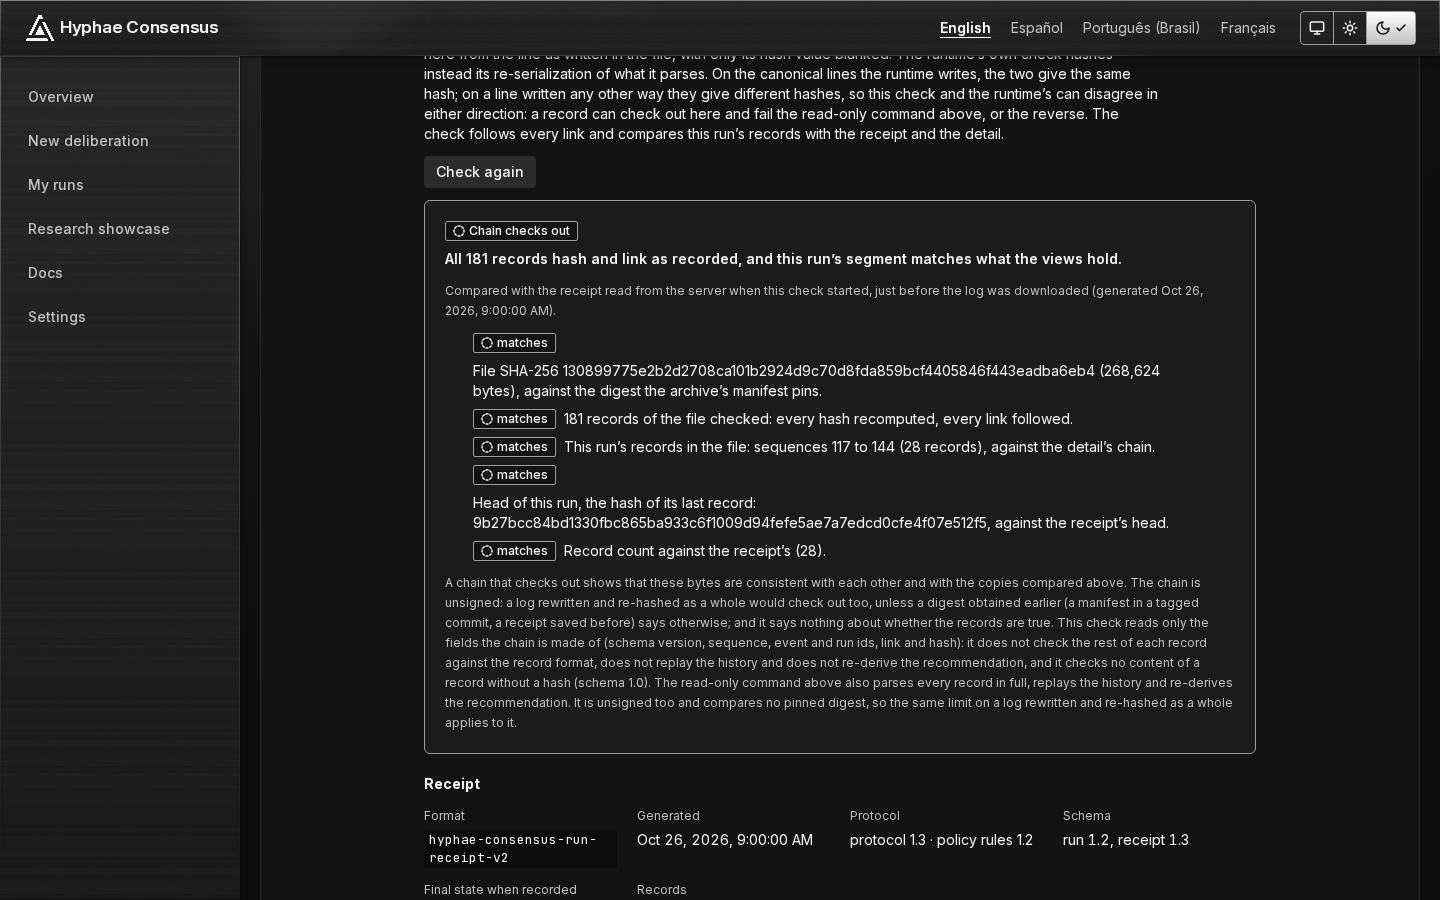
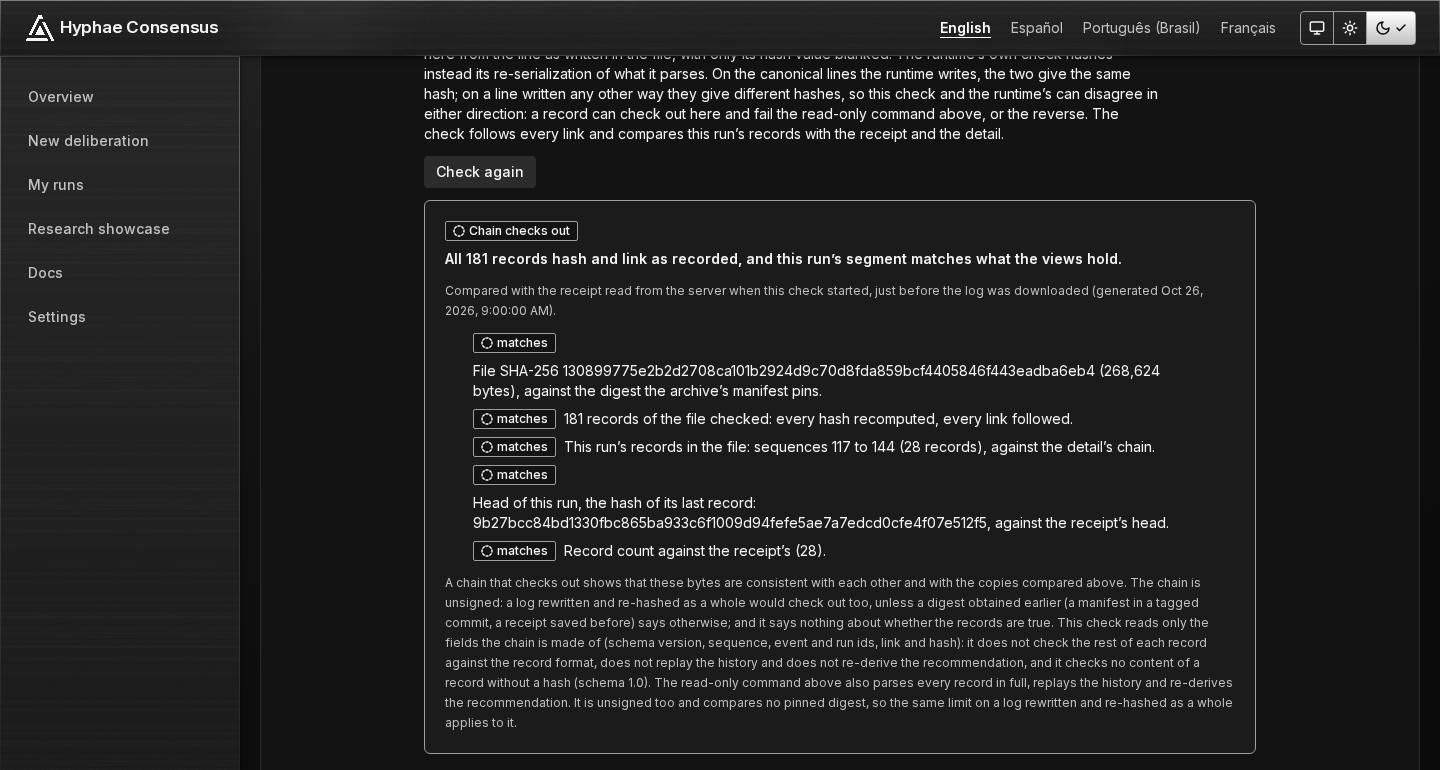
docs(readme): review fixes for the visual README
- The audit chain-check screenshots end at the check box (1440x770);
  the fixture receipt below it is cropped out. The caption and the
  "How these were made" note say that run details and receipts are
  contract fixtures, re-keyed to the archived run, not the archive's.
- The Repository link points at github.com/terrizoaguimor/hyphae-consensus.
- The paired screenshot cells are top-aligned (valign="top").
- The dotted mermaid edge uses the pipe-label form.
- docs/roadmap.md no longer cites a README "Status" section; it points
  at its own status section and at docs/meta-api.md.
- The four moved docs open with a reader-facing line instead of the
  move note, without the extra blank line.

diff --git a/README.md b/README.md
@@ -40,7 +40,7 @@ development window October 26 – November 4, 2026 · Owner: Mario (independent 
 
 ## For judges
 
-**Video:** [VIDEO_URL] · **Demo:** [DEMO_URL] · **Repository:** [REPO_URL] · run it yourself in
+**Video:** [VIDEO_URL] · **Demo:** [DEMO_URL] · **Repository:** [github.com/terrizoaguimor/hyphae-consensus](https://github.com/terrizoaguimor/hyphae-consensus) · run it yourself in
 three commands: [Quick start](#quick-start) (no credential, no Meta call).
 
 **What it is.** Three Meta-model roles (Proposer, Critic, Evidence Evaluator; `muse-wonder-1.0`
@@ -142,7 +142,7 @@ flowchart LR
     RT -- "memory port" --> SNAP
     META --> MAPI
     HY --> HYPHAE
-    SNAP -. "files captured from" .-> HYPHAE
+    SNAP -.->|files captured from| HYPHAE
     CLI --> RT
 ```
 
@@ -169,14 +169,14 @@ deployed.** The images follow your GitHub theme; both sets are in
     </td>
   </tr>
   <tr>
-    <td width="50%">
+    <td width="50%" valign="top">
       <picture>
         <source media="(prefers-color-scheme: dark)" srcset="docs/assets/screenshots/run-awaiting-dark.png">
         <img src="docs/assets/screenshots/run-awaiting-light.png" alt="Run workspace of a guided run waiting for a human decision, with the Proposer, Critic and Evidence Evaluator lanes">
       </picture>
       <br><sub><b>A run awaiting the decision.</b> A guided run (SCRIPTED, SIMULATED): the three roles, the provenance labels, the tabs.</sub>
     </td>
-    <td width="50%">
+    <td width="50%" valign="top">
       <picture>
         <source media="(prefers-color-scheme: dark)" srcset="docs/assets/screenshots/decision-dark.png">
         <img src="docs/assets/screenshots/decision-light.png" alt="Decision tab: the policy's recommendation, the no-authority notice, a note field, Approve and Reject">
@@ -185,14 +185,14 @@ deployed.** The images follow your GitHub theme; both sets are in
     </td>
   </tr>
   <tr>
-    <td width="50%">
+    <td width="50%" valign="top">
       <picture>
         <source media="(prefers-color-scheme: dark)" srcset="docs/assets/screenshots/recorded-chain-check-dark.png">
         <img src="docs/assets/screenshots/recorded-chain-check-light.png" alt="Audit trail: the in-browser chain check reports that all 181 records of the archived log hash and link as recorded">
       </picture>
-      <br><sub><b>The audit chain check.</b> Run in the browser over the archived log <code>research/2026-10-27/live-battery-2026-10-27.jsonl</code> (181 records, SHA-256 pinned by the manifest).</sub>
+      <br><sub><b>The audit chain check.</b> Run in the browser over the archived log <code>research/2026-10-27/live-battery-2026-10-27.jsonl</code> (181 records, SHA-256 pinned by the manifest); the receipt it compares with is the mock's fixture re-keyed to that run, so its generation time is not the archive's.</sub>
     </td>
-    <td width="50%">
+    <td width="50%" valign="top">
       <picture>
         <source media="(prefers-color-scheme: dark)" srcset="docs/assets/screenshots/showcase-dark.png">
         <img src="docs/assets/screenshots/showcase-light.png" alt="Research showcase: recorded runs by battery, with the archive manifest digest checked in the browser">
@@ -206,7 +206,9 @@ deployed.** The images follow your GitHub theme; both sets are in
 image at 1440 px, over the end-to-end suite's mocked API (<code>apps/web/e2e/api-mock.ts</code>;
 no server, no network, no model call), reduced motion. The showcase lists 4 of the archive's
 runs, as the mock serves them; the archived log and <code>MANIFEST.json</code> are the real
-files from <code>research/</code>. Lossless greyscale PNGs.</sub>
+files from <code>research/</code>; run details and receipts, including those shown with the
+archived log, are contract fixtures (<code>contracts/api-v1/fixtures</code>), not the
+archive's. Lossless greyscale PNGs.</sub>
 
 | View | What it shows |
 |---|---|

diff --git a/docs/roadmap.md b/docs/roadmap.md
@@ -90,8 +90,8 @@ the git history (the operator's local time, UTC−05:00); the architecture is de
 | Round 4, heuristic-evaluation fixes: simulated never green (HE #1, #2, #16), no truncated outcome or evidence tag (HE #3, #24), decision prominence (HE #4, #12), integrity failures travel (HE #5, #7), guided cards SCRIPTED (HE #6), state copy and error headlines (HE #8, #18), phone width and contrast (HE #9, #10) | merges `e6cbbce` to `3b44b49` | `apps/web/README.md` (round 4) |
 | Round 5, the redesign (owner direction 2026-10-31): monochrome foundation (true greys only; status by fill, frame, hatch and icon), brushed glass, hue-free status tags, square-first shapes and the segmented theme control, the Quorum logo, favicons and Open Graph image | merges `888c618`, `48851f9`, `3c2d516`, `4436188`, `79a9214`; follow-ups to `a657531` | `apps/web/README.md` ("Monochrome", "Brushed glass", "Logo (Quorum)") |
 | UI frozen at `a657531` for the submission: no visual or layout change unless a gate fails | — | owner direction 2026-10-31 |
-| Tests at `a657531` on Windows: `cargo test --workspace --locked` 603 passed / 0 failed / 2 ignored; scripted conformance check 10/10; demo crate 2 passed; `pnpm check` passes (Vitest 42 files, 904 passed / 16 skipped); Playwright 501 tests, 500 passed in the full run, the 1 failure (a browser-context teardown past the 120 s timeout under load) passed on re-running `a11y.spec.ts` (19/19); axe 340 scans, 0 violations | — | README, "Status" |
-| Judge-facing documents: the README's "For judges" block and status, this roadmap | branch `docs/r6-judges-readme` | — |
+| Tests at `a657531` on Windows: `cargo test --workspace --locked` 603 passed / 0 failed / 2 ignored; scripted conformance check 10/10; demo crate 2 passed; `pnpm check` passes (Vitest 42 files, 904 passed / 16 skipped); Playwright 501 tests, 500 passed in the full run, the 1 failure (a browser-context teardown past the 120 s timeout under load) passed on re-running `a11y.spec.ts` (19/19); axe 340 scans, 0 violations | — | "Status on 2026-10-31" below |
+| Judge-facing documents: the README's "For judges" block, this roadmap and its status section | branch `docs/r6-judges-readme` | — |
 
 ## Remaining for tomorrow (2026-11-01)
 
@@ -155,12 +155,12 @@ the git history (the operator's local time, UTC−05:00); the architecture is de
   exposure of the portal (see "Deploy" for the replay-only exception that needs an owner
   decision); it is not needed for the submission, which can show the guided and recorded
   runs with live mode off.
-- **Deliverables, as of 2026-10-31.** Done: the README section on how the project uses
-  Meta's API; the third-party notices with the web packages, fonts and icons
+- **Deliverables, as of 2026-10-31.** Done: the account of how the project uses
+  Meta's API (`docs/meta-api.md`, moved from the README on 2026-11-01); the third-party notices with the web packages, fonts and icons
   (`THIRD_PARTY_NOTICES.md`); the video-production package (kept outside the repository
   since 2026-11-01); the judge-facing README block. Still open: the final engineering
   report (implemented, tested, passed, failed, incomplete, simulated, live), unless the
-  owner decides the README's "For judges" block and "Status" replace it (proposed on
+  owner decides the README's "For judges" block and the status section of this roadmap replace it (proposed on
   2026-10-31, not decided); re-checking the video script against the
   round 5 UI (its own lane); a Mission Control design specification in the repository
   (the design sources named in `apps/web/README.md` are outside it).

diff --git a/docs/results.md b/docs/results.md
@@ -1,7 +1,6 @@
 # Results so far
 
-Moved here from the repository README on 2026-11-01 (text as of `3686bbe`, unchanged except for link paths and headings); the README keeps a summary. The source of every figure is [evaluation.md](evaluation.md) and [`research/`](../research/README.md).
-
+The [README](../README.md) has a summary of this page. The source of every figure is [evaluation.md](evaluation.md) and [`research/`](../research/README.md).
 
 All figures are from `docs/evaluation.md` and `research/`, as recorded. The scripted check
 and the live batteries are different things and are not pooled; neither is a baseline

diff --git a/docs/meta-api.md b/docs/meta-api.md
@@ -1,7 +1,6 @@
 # How Hyphae Consensus uses Meta's API
 
-Moved here from the repository README on 2026-11-01 (text as of `3686bbe`, unchanged except for link paths and headings); the README keeps a summary.
-
+The [README](../README.md) has a summary of this page.
 
 - **Model.** `muse-wonder-1.0`, the default model id (`DEFAULT_META_MODEL` in
   `crates/consensus-api/src/config.rs`; `CONSENSUS_MODEL` overrides it). Every recorded

diff --git a/docs/running-locally.md b/docs/running-locally.md
@@ -1,7 +1,6 @@
 # Run it locally
 
-Moved here from the repository README on 2026-11-01 (text as of `3686bbe`, unchanged except for link paths and headings); the README keeps a summary.
-
+The [README](../README.md) has a summary of this page.
 
 Prerequisites: Rust 1.99.1 via [rustup](https://rust-lang.org/tools/install), pinned in
 `rust-toolchain.toml` (on Windows with the MSVC build tools, see the

diff --git a/docs/verification.md b/docs/verification.md
@@ -1,7 +1,6 @@
 # What is verified and what is not
 
-Moved here from the repository README on 2026-11-01 (text as of `3686bbe`, unchanged except for link paths and headings); the README keeps a summary.
-
+The [README](../README.md) has a summary of this page.
 
 ## Integrity proofs: what they do and do not establish
 
